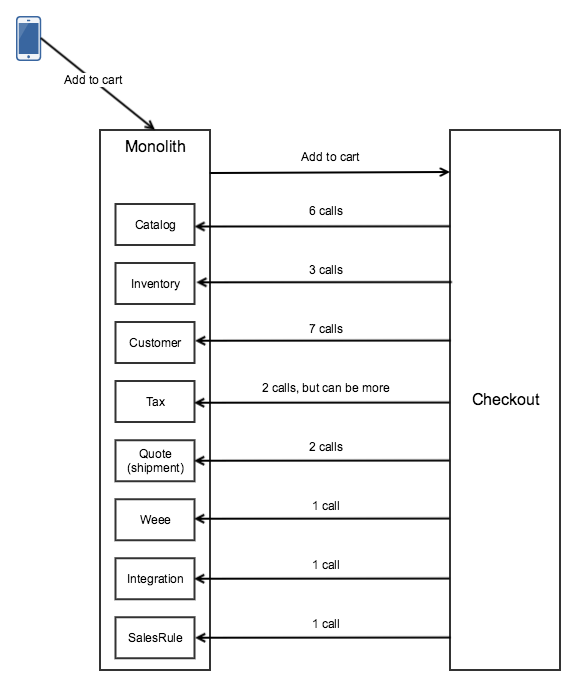
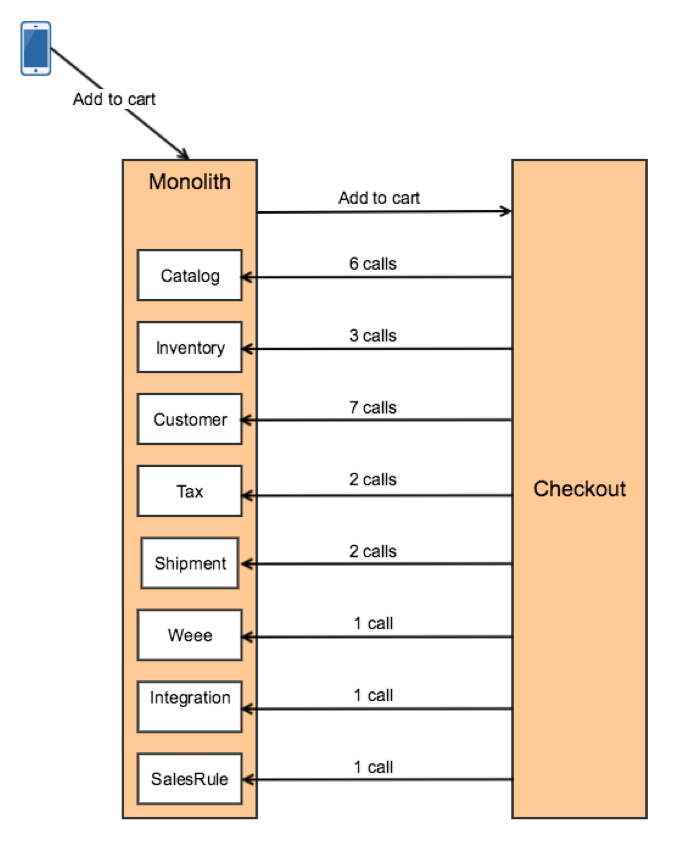
Update document

diff --git a/design-documents/checkout-service.md b/design-documents/checkout-service.md
@@ -2,104 +2,71 @@
 
 ## Overview
 
-This document describes design and communication of monolith application and checkout service.
-
-## Design
-
-Operations that are currently per item (inventory requests) need to be done for multiple items to reduce number of calls.
-
-Shared interfaces (product interfaces) need to be moved into API modules. For backwards compatibility we can export interfaces in the new API modules under old name. Shared configuration (configuration for extension attributes) need to be moved to a separate modules as well.
+This document describes checkout service prototype and communication between monolith application and checkout service.
 
 ## Communication Between Monolith and Checkout Service
 
 ### Add to Cart Operation
 
-Current communication for add to cart operation (has one of the largest amount of communication).
+Below is the diagram of communication after introducing boundaries between modules and making system do network calls in the places where seams are. System on the diagram makes 23 calls and ~8.5 times slower.
 
 ![Current state](checkout-service/add-to-cart-current-state.png)
 
-Total 23 calls on Open Source. Commerce will have one more call. Customizations could increase number of calls.
+Most likely after introducing boundaries between modules performance of the system will not be satisfiable and optimizations will have to be done. Some of the possible techniques for reducing number of calls described [here](https://github.com/magento/architecture/blob/6b60580f17be4e015229d9c0f0228d789aa3269c/design-documents/services-decomposition-guidelines.md)
 
-#### Call Analysis
-
-Catalog
-* 2 calls to get list of products with different criteria
-* 1 call to get final price for QTY
-* 1 call to get product info
-* 1 call to prepare item for cart
-Possible optimizations: remove prepare item for cart call, 2 product list calls into 1 call, we will get 3 calls.
-
-Inventory
-* 2 calls to get different stock data
-* 1 call to validate 
-Possible optimizations: group stock data calls into 1, we will get 2 calls as a result.
-
-Customer
-* 7 calls to get customer data
-Possible optimizations: pass as an argument of operation.
-
-Quote/shipment
-* 2 calls
-Possible optimizations: need to investigate if we can eliminate 1 call, as a result we can potentially get 1 call.
-
-Tax
-* 2 calls
-Possible optimizations: need to investigate if we can eliminate 1 call, as a result we will get 1 call.
-
-Integration
-* 1 call that can be removed.
-
-#### Additional Optimizations
-
-* Pass customer/group/addresses as an argument.
-* Make inventory checks a separate operation (validate-cart) that will be performed after product added to cart on each cart load asynchronously and before placing order
-* Totals should not be recalculated on each cart load page, only when cart changes and before placing the order to make sure product data didn't change.
-* Create service for totals calculation to reduce number of calls to BFF
-* Group calls to the same service (request all needed data in the beginning); can lead to shared state
-
-After we applying the following optimizations, we will have communication with checkout service as shown below
-* Pass customer as an argument of add to cart operation
-* Aggregate calls to catalog and inventory services Magento\CatalogInventory\Api\StockRegistryInterface::getStockItemBySku, Magento\CatalogInventory\Api\StockRegistryInterface::getStockStatusBySku need to combine into one call
-* Prepare item for cart logic should be eliminated, service should receive cart ready to add
-* Create API that would allow to calculate totals for the quote
+Please see diagram below of communication between services after the following refactoring and optimizations
+* Inventory checks disabled on quote load. Need to be done asynchronous on the shopping cart page and synchronously before placing order
+* Customer being passed with customer groups in add to cart operation
+* Authorization and authentication disabled
+* Created new service contracts for
+    * \Magento\Catalog\Model\Product\Type\AbstractType::prepareForCartAdvanced
+    * \Magento\Quote\Model\Quote\TotalsCollector::collect
+    * Magento\Quote\Api\CartRepositoryInterface::save
+* Misc changes to avoid unnecessary initialization/queries, for instance \Magento\Catalog\Model\Product::getCustomAttributes
+* Missing fields added to interfaces to make hydration/extraction possible when sending data through the network
+* Websites/stores and directory related logic skipped
+* New modules introduced SalesProxy, QuoteProxy, QuoteApi, MultishippingProxy, CustomerProxy, CatalogProxy, CheckoutProxy, PaymentProxy, PaypalProxy
 
 ![First iteration](checkout-service/add-to-cart-first-iteration.png)
 
+System makes 4 calls and ~2 times slower than monolith. After adding caching of get product list request, it would probably be 1.5 slower. Additional optimization that can be made is to move prepare for cart logic to checkout service.
 
-If we apply these additional optimizations, communication between services will look like this
-* Have tax service return aggregated information that later can be used to display tax on product page or totals. Question: wouldn't this data be redundant in some cases?
-* Move totals to it's own service: 1) reduce number of calls to monolith, 2) cache of requested data from tax, quote and sales service and as a result reduce amount of communication.
-
+After moving more parts of the system to services, communication may looks something like this.
 
 ![Apply more decomposition](checkout-service/add-to-cart-apply-more-decomposition.png)
 
 Cons
-* More work for initial iteration as we would have to decouple more services with checkout
-
+* More work for initial iteration as we would have to decouple more services with checkout.
 
 Pros
 * Allows reduce calls to BFF
-* Allows to avoid intermediate state of calculating totals in BFF and reduce amount of backwards incompatible changes
-
-### Place Order Operation
-
-Communication for place order operation looks similar. The only major differences are that we need to save payment, load quote multiple times and save quote. This flow potentially can be optimized.
-
-
-![Apply more decomposition](checkout-service/place-order.png)
-
+* Allows to avoid intermediate state of the system when calculation totals done in BFF and reduce amount of backwards incompatible changes
 
 ## Transactions
+
 Currently Quote module is responsible for creating an order. Need to move this responsibility to order service (BFF after first iteration).
 
 BFF will be responsible for loading quote and managing the transaction. If order placing failed, no additional transactions need to be rolled back after first iteration as all transactions being performed on BFF. If order placing successful, but  removing quote failed, we would need to retry removing quote instead of rolling back. Mechanism of retrying of failed operations is a general concern and should be discussed separately.
 
+## Prototype Limitations
+
+* Add to cart flow with simple product without options, main totals (some totals might be missing or not add up correctly) and guest customer
+* Place order scenario is functional (basic flow, critical data captured)
+* Some functionality that got broken and looked easy to fix has been left broken
+
+## Backwards incompatible changes
+
+* Adding fields to interfaces
+* Introducing new service contracts in monolith that going to become a service in the future (possibly can keen backwards compatible by making these service contracts use the new service).
+* Adding new fields to service contracts, for instance passing customer in \Magento\Quote\Api\GuestCartItemRepositoryInterface::save. Potentially can keep backwards compatible by leaving monolith use old service contracts and when deployed as distributed setup new ones.
+* Most likely we don't want to send all of the data for entity over network. If we go with this approach we will have different sent of fields being passed in ase of monolith and distributed deployment.
 
 ## Open Questions
+
+* Instantiation of models for the entities that have EAV attributes leads to database queries.
+* BFF should not know about numeric quote identifiers.
 * Format of the data API receives is different from the format service contracts use in some cases (for date for instance we expect string via API, but the actual interfaces use array). A: Leave external API for backwards compatibility, introduce new types for services.
 * Hydration/extraction for certain entities triggers initialization of resource models/queries to database, ProductInterface is one of the examples. A: Some of these interfaces should not be shared, quote should have it's own ProductInterface. What to do with backwards compatibility?
-* Code reuse (reusing the same modules). It's anti pattern, but maybe for us it's ok? A: Deal on case by case basis.
 * When adding product to cart for product option of type file we need to upload the file. A: Storage of these files can be responsibility of separate service.
-* Quote uses \Magento\Catalog\Model\Product\Type\AbstractType::prepareForCartAdvanced to prepare product for cart. A: BFF should pass product that already ready to be added to cart. Later can consider exposing this API on the catalog service.
-* Quote need to get price for a product in certain QTY. We can't pass product with final price as price can depend on tier price. A: BFF need to expose API that would allow to retrieve final price for product in certain QTY.
 * A lot of fields are not part of the data interfaces. A: Add fields to interfaces or use extension attributes.
+* Number of connections to monolith increases until all of the services checkout service uses separated.
